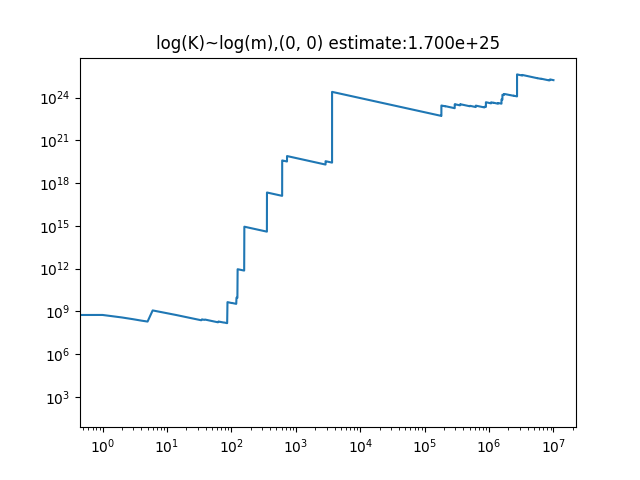
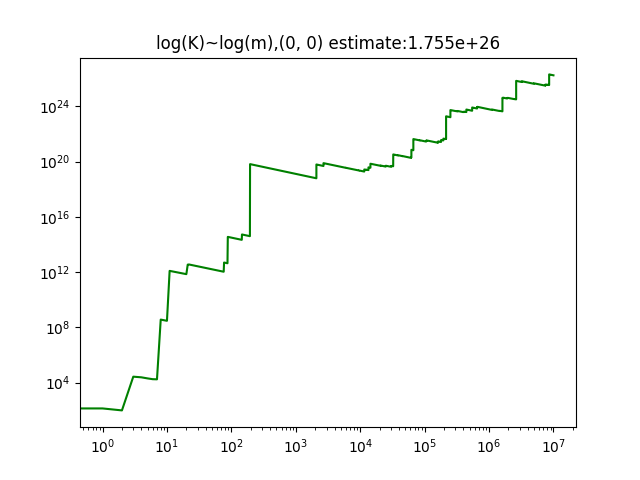
new

diff --git a/SAW.py b/SAW.py
@@ -252,7 +252,7 @@ class Lattice():
         counts = [self.count_length.get(i, 0) for i in range(120)]
         counts = np.array(counts) 
         counts = counts/counts.sum() * self.estimate[-1]
-        plt.plot(counts)
+        plt.plot(counts, color='green')
         plt.title('histgram of length N')
         plt.savefig(f'{name}_histgram')
         plt.show()
@@ -262,7 +262,7 @@ class Lattice():
         counts = [self.count_length_n_n.get(i, 0) for i in range(120)]
         counts = np.array(counts) 
         counts = counts/counts.sum() * self.estimate_n_n[-1]
-        plt.plot(counts)
+        plt.plot(counts, color='green')
         plt.title('histgram of length N')
         plt.savefig(f'{name}_histgram_n_n')
         plt.show()
@@ -274,14 +274,14 @@ class Lattice():
 
     def print_result(self, name):
         plt.figure()
-        plt.loglog(range(len(self.estimate)), self.estimate)
+        plt.loglog(range(len(self.estimate)), self.estimate, color='green')
         plt.title(f'log(K)~log(m),{self.start} estimate:{self.estimate[-1]:.3e}')
         plt.savefig(f'{name}_loglog.png')
         plt.show()
 
     def print_result_n_n(self, name):
         plt.figure()
-        plt.loglog(range(len(self.estimate_n_n)), self.estimate_n_n)
+        plt.loglog(range(len(self.estimate_n_n)), self.estimate_n_n, color='green')
         plt.title(f'log(K)~log(m), estimate:{self.estimate_n_n[-1]:.3e}')
         plt.savefig(f'{name}_loglog_n_n.png')
         plt.show()
@@ -307,7 +307,7 @@ class Lattice():
         plt.imshow(grid, cmap='binary')
         plt.box(False)
         plt.title(f'longest trail, step: {len(self.longest_trail)}')
-        plt.plot([x for x, y in self.longest_trail], [y for x, y in self.longest_trail], color='blue')
+        plt.plot([x for x, y in self.longest_trail], [y for x, y in self.longest_trail], color='green')
         plt.savefig(f'{name}_longest_trail.png')
         plt.show()
     
@@ -332,7 +332,7 @@ class Lattice():
         plt.yticks(range(11))
         plt.box(False)
         plt.title(f'longest trail ending at (n,n), step: {len(self.longest_trail_n_n)}')
-        plt.plot([x for x, y in self.longest_trail_n_n], [y for x, y in self.longest_trail_n_n], color='blue')
+        plt.plot([x for x, y in self.longest_trail_n_n], [y for x, y in self.longest_trail_n_n], color='green')
         plt.savefig(f'{name}_longest_trail_n_n.png')
         plt.show()
         
